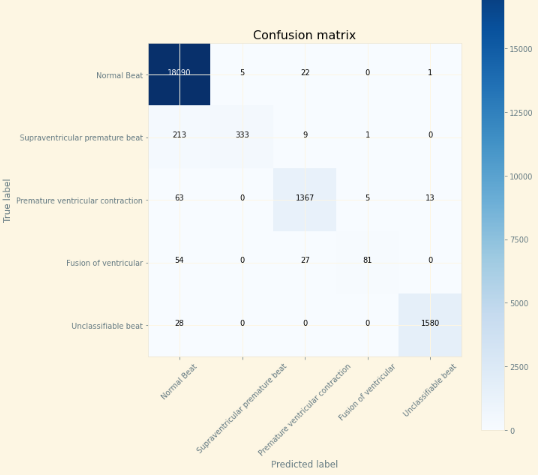
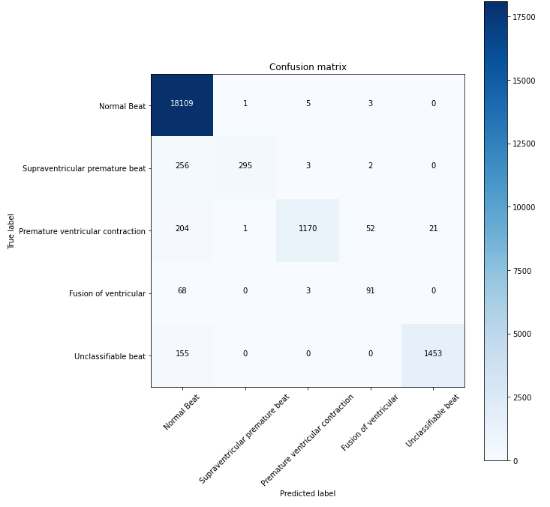
Updated

diff --git a/code.html b/code.html
@@ -15,17 +15,17 @@
 <meta name="generator" content="Jekyll v3.9.2">
 <meta property="og:title" content="Code and Benchmarks">
 <meta property="og:locale" content="en">
-<meta name="description" content="Paddy Inspector: Dataset and Techniques for automated identification of diseases and pests in paddy">
-<meta property="og:description" content="Paddy Inspector: Dataset and Techniques for automated identification of diseases and pests in paddy">
-<!-- <link rel="canonical" href="https://paddydoc.github.io/code/"> -->
-<!-- <meta property="og:url" content="https://paddydoc.github.io/code/"> -->
-<meta property="og:site_name" content="Paddy Doctor">
+<meta name="description" content="MIT-BIH Arrhythmia : Dataset and Techniques for automated identification of diseases heart beat">
+<meta property="og:description" content="MIT-BIH Arrhythmia : Dataset and Techniques for automated identification of diseases heart beat">
+ <link rel="canonical" href="https://iotmedical123.github.io/ecgframwork.github.io/code/"> 
+ <meta property="og:url" content="https://iotmedical123.github.io/ecgframwork.github.io/code/"> 
+<meta property="og:site_name" content="MIT-BIH Arrhythmia">
 <meta property="og:type" content="website">
 <meta name="twitter:card" content="summary">
 <meta property="twitter:title" content="Code and Benchmarks">
 <script type="application/ld+json">
 
-{"@context":"https://schema.org","@type":"WebPage","description":"Paddy Inspector: Dataset and Techniques for automated identification of diseases and pests in paddy","headline":"Code and Benchmarks","url":"https://paddydoc.github.io/code/"}</script> 
+{"@context":"https://schema.org","@type":"WebPage","description":"MIT-BIH Arrhythmia : Dataset and Techniques for automated identification of diseases heart beat","headline":"Code and Benchmarks","url":"https://iotmedical123.github.io/ecgframwork.github.io/code/"}</script> 
 <!-- End Jekyll SEO tag -->
 
     <!-- head scripts --></head>
@@ -228,17 +228,17 @@
       <td style="text-align: right">99</td>
       <td style="text-align: right">99</td>
       <td style="text-align: right">99</td>
-      <td style="text-align: right">98.8</td>
+      <td style="text-align: right">98.76</td>
       <td style="text-align: right">99</td>
 
     </tr>
     <tr>
       <td style="text-align: left"><a href="https://www.kaggle.com/code/ahmdtolba/attention-map">Attention Map</a></td>
+      <td style="text-align: right">96</td>
       <td style="text-align: right">98</td>
+      <td style="text-align: right">97</td>
+      <td style="text-align: right">96.46</td>
       <td style="text-align: right">98</td>
-      <td style="text-align: right">98</td>
-      <td style="text-align: right">97.9</td>
-      <td style="text-align: right">99</td>
 
     </tr>
 
@@ -481,13 +481,13 @@ Unclassifiable beat                     0.99      0.99      0.99      1608
                                     precision    recall  f1-score   support
 
 Normal Beat                             0.99      1.00      0.99     18118
-Supraventricular premature beat         0.95      0.80      0.87       556
+Supraventricular premature beat         0.92      0.82      0.86       556
 Premature ventricular contraction       0.96      0.97      0.97      1448
-Fusion of ventricular                   0.84      0.84      0.84       162
-Unclassifiable beat                     1.00      0.99      0.99      1608
+Fusion of ventricular                   0.89      0.73      0.81       162
+Unclassifiable beat                     0.99      0.99      0.99      1608
 
      accuracy                                               0.99     21892
-    macro avg                           0.95      0.92      0.93     21892
+    macro avg                           0.95      0.90      0.92     21892
  weighted avg                           0.99      0.99      0.99     21892
 
 
@@ -503,15 +503,15 @@ Unclassifiable beat                     1.00      0.99      0.99      1608
 
                                     precision    recall  f1-score   support
 
-Normal Beat                             0.98      1.00      0.99     18118
-Supraventricular premature beat         0.99      0.60      0.74       556
-Premature ventricular contraction       0.96      0.94      0.95      1448
-Fusion of ventricular                   0.93      0.50      0.65       162
-Unclassifiable beat                     0.99      0.98      0.99      1608
+Normal Beat                             0.96      1.00      0.98     18118
+Supraventricular premature beat         0.99      0.53      0.69       556
+Premature ventricular contraction       0.99      0.81      0.89      1448
+Fusion of ventricular                   0.61      0.56      0.59       162
+Unclassifiable beat                     0.99      0.90      0.94      1608
 
-     accuracy                                               0.98     21892
-    macro avg                           0.97      0.80      0.86     21892
- weighted avg                           0.98      0.98      0.98     21892
+     accuracy                                               0.96     21892
+    macro avg                           0.91      0.76      0.82     21892
+ weighted avg                           0.97      0.96      0.96     21892
 
 
 </code></pre></div></div>

diff --git a/dataset.html b/dataset.html
@@ -5,7 +5,7 @@
     <meta name="viewport" content="width=device-width, initial-scale=1">
     <meta name="theme-color" content="#ffffff">
     <link rel="stylesheet" href="./dataset _files/app.css">
-    <link rel="shortcut icon" type="image/png" href="https://paddydoc.github.io/favicon.png">
+    <link rel="shortcut icon" type="image/png" href="ref">
     <script defer="" src="./dataset_files/cdn.min.js.download"></script>
     <link rel="stylesheet" href="./dataset_files/all.min.css">
     
@@ -16,17 +16,17 @@
 <meta name="generator" content="Jekyll v3.9.2">
 <meta property="og:title" content="Paddy Doctor dataset">
 <meta property="og:locale" content="en">
-<meta name="description" content="Paddy Inspector: Dataset and Techniques for automated identification of diseases and pests in paddy">
-<meta property="og:description" content="Paddy Inspector: Dataset and Techniques for automated identification of diseases and pests in paddy">
-<link rel="canonical" href="https://paddydoc.github.io/dataset/">
-<meta property="og:url" content="https://paddydoc.github.io/dataset/">
-<meta property="og:site_name" content="Paddy Doctor">
+<meta name="description" content="MIT-BIH Arrhythmia : Dataset and Techniques for automated identification of diseases heart beat">
+<meta property="og:description" content="MIT-BIH Arrhythmia : Dataset and Techniques for automated identification of diseases heart beat">
+ <link rel="canonical" href="https://iotmedical123.github.io/ecgframwork.github.io/dataset/"> 
+ <meta property="og:url" content="https://iotmedical123.github.io/ecgframwork.github.io/dataset/"> 
+<meta property="og:site_name" content="MIT-BIH Arrhythmia">
 <meta property="og:type" content="website">
 <meta name="twitter:card" content="summary">
-<meta property="twitter:title" content="Paddy Doctor dataset">
+<meta property="twitter:title" content="MIT-BIH dataset">
 <script type="application/ld+json">
-{"@context":"https://schema.org","@type":"WebPage","description":"Paddy Inspector: Dataset and Techniques for automated identification of diseases and pests in paddy","headline":"Paddy Doctor dataset","url":"https://paddydoc.github.io/dataset/"}</script>
-<!-- End Jekyll SEO tag -->
+    {"@context":"https://schema.org","@type":"WebPage","description":"MIT-BIH Arrhythmia : Dataset and Techniques for automated identification of diseases heart beat","headline":"MIT-BIH dataset","url":"https://iotmedical123.github.io/ecgframwork.github.io/dataset/"}</script> 
+    <!-- End Jekyll SEO tag -->
 
     <!-- head scripts --></head>
 

diff --git a/home.html b/home.html
@@ -16,16 +16,16 @@
 <meta name="generator" content="Jekyll v3.9.2">
 <meta property="og:title" content="Welcome to Paddy Doctor">
 <meta property="og:locale" content="en">
-<meta name="description" content="Paddy Inspector: Dataset and Techniques for automated identification of diseases and pests in paddy">
-<meta property="og:description" content="Paddy Inspector: Dataset and Techniques for automated identification of diseases and pests in paddy">
-<link rel="canonical" href="https://paddydoc.github.io/">
-<meta property="og:url" content="https://paddydoc.github.io/">
-<meta property="og:site_name" content="Paddy Doctor">
+<meta name="description" content="MIT-BIH Arrhythmia : Dataset and Techniques for automated identification of diseases heart beat">
+<meta property="og:description" content="MIT-BIH Arrhythmia : Dataset and Techniques for automated identification of diseases heart beat">
+ <link rel="canonical" href="https://iotmedical123.github.io/ecgframwork.github.io/home/"> 
+ <meta property="og:url" content="https://iotmedical123.github.io/ecgframwork.github.io/home/"> 
+<meta property="og:site_name" content="MIT-BIH Arrhythmia">
 <meta property="og:type" content="website">
 <meta name="twitter:card" content="summary">
-<meta property="twitter:title" content="Welcome to Paddy Doctor">
+<meta property="twitter:title" content="Welcome to MIT-BIH">
 <script type="application/ld+json">
-{"@context":"https://schema.org","@type":"WebSite","description":"Paddy Inspector: Dataset and Techniques for automated identification of diseases and pests in paddy","headline":"Welcome to Paddy Doctor","name":"Paddy Doctor","url":"https://paddydoc.github.io/"}</script>
+    {"@context":"https://schema.org","@type":"WebPage","description":"MIT-BIH Arrhythmia : Dataset and Techniques for automated identification of diseases heart beat","headline":"Welcome to MIT-BIH","url":"https://iotmedical123.github.io/ecgframwork.github.io/home/"}</script> 
 <!-- End Jekyll SEO tag -->
 
     <!-- head scripts --></head>
@@ -178,6 +178,6 @@
 </footer>
 
     
-    <script src="./Welcome to Paddy Doctor _ Paddy Doctor_files/app.js.download" type="text/javascript"></script><!-- footer scripts -->
+    <script src="./home_files/app.js.download" type="text/javascript"></script><!-- footer scripts -->
 
 <div id="torrent-scanner-popup" style="display: none;"></div></body></html>

diff --git a/index.html b/index.html
@@ -5,7 +5,7 @@
     <meta name="viewport" content="width=device-width, initial-scale=1">
     <meta name="theme-color" content="#ffffff">
     <link rel="stylesheet" href="./index_files/app.css">
-    <link rel="shortcut icon" type="image/png" href="https://paddydoc.github.io/favicon.png">
+    <link rel="shortcut icon" type="image/png" href="ref">
     <script defer="" src="./index_files/cdn.min.js.download"></script>
     <link rel="stylesheet" href="./index_files/all.min.css">
     
@@ -16,16 +16,16 @@
 <meta name="generator" content="Jekyll v3.9.2">
 <meta property="og:title" content="Team">
 <meta property="og:locale" content="en">
-<meta name="description" content="Paddy Inspector: Dataset and Techniques for automated identification of diseases and pests in paddy">
-<meta property="og:description" content="Paddy Inspector: Dataset and Techniques for automated identification of diseases and pests in paddy">
-<link rel="canonical" href="https://paddydoc.github.io/team/">
-<meta property="og:url" content="https://paddydoc.github.io/team/">
-<meta property="og:site_name" content="Paddy Doctor">
+<meta name="description" content="MIT-BIH Arrhythmia : Dataset and Techniques for automated identification of diseases heart beat">
+<meta property="og:description" content="MIT-BIH Arrhythmia : Dataset and Techniques for automated identification of diseases heart beat">
+ <link rel="canonical" href="https://iotmedical123.github.io/ecgframwork.github.io/index/"> 
+ <meta property="og:url" content="https://iotmedical123.github.io/ecgframwork.github.io/index/"> 
+<meta property="og:site_name" content="MIT-BIH Arrhythmia">
 <meta property="og:type" content="website">
 <meta name="twitter:card" content="summary">
 <meta property="twitter:title" content="Team">
 <script type="application/ld+json">
-{"@context":"https://schema.org","@type":"WebPage","description":"Paddy Inspector: Dataset and Techniques for automated identification of diseases and pests in paddy","headline":"Team","url":"https://paddydoc.github.io/team/"}</script>
+    {"@context":"https://schema.org","@type":"WebPage","description":"MIT-BIH Arrhythmia : Dataset and Techniques for automated identification of diseases heart beat","headline":"Team","url":"https://iotmedical123.github.io/ecgframwork.github.io/index/"}</script> 
 <!-- End Jekyll SEO tag -->
 
     <!-- head scripts --></head>
